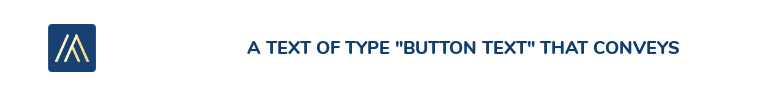
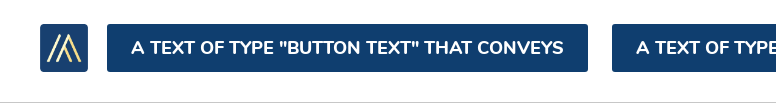
WIP responsiva

diff --git a/components/avail/Footer/index.js b/components/avail/Footer/index.js
@@ -10,6 +10,7 @@ import {
 } from "react-feather"
 import { Heading, Text } from "@rent_avail/typography"
 import styled from "styled-components"
+import { availContainerWidth } from "lib/config"
 
 const FooterLinks = styled(Box)`
   margin-top: 3rem;
@@ -29,9 +30,12 @@ const FooterText = styled(Text)`
   margin-top: 0.6667rem;
 `
 
-const FooterIcon = styled(Box).attrs({ as: "a" })`
+const FooterIcon = styled(Box).attrs({
+  as: "a",
+  margin: [0, 0, 0, "2rem 0 0"],
+})`
   display: inline-block;
-  margin: 2rem 0 0;
+  margin: 
   &:first-child {
     margin: 0;
   }
@@ -46,7 +50,7 @@ const Footer = () => {
   const currentYear = new Date().getFullYear()
   return (
     <Box bg="blue_100">
-      <Container maxWidth="96rem" p="2rem 2rem 3rem">
+      <Container maxWidth={availContainerWidth} p="2rem 2rem 3rem">
         <Flex justifyContent="center">
           <Flex
             as="a"
@@ -61,8 +65,8 @@ const Footer = () => {
             <ChevronUp style={{ marginLeft: ".5rem" }} />
           </Flex>
         </Flex>
-        <Grid gap="3rem" justifyContent="space-between">
-          <Col span={[12, 4, 3]}>
+        <Grid gap={["2rem", "2rem", "4rem"]} justifyContent="space-between">
+          <Col span={[12, 6, 4, 3]}>
             <FooterLinks>
               <FooterLinksHeading as="h5">Get Started</FooterLinksHeading>
               <FooterText as="a" href="https://www.avail.co/users/new">
@@ -94,7 +98,7 @@ const Footer = () => {
               </FooterText>
             </FooterLinks>
           </Col>
-          <Col span={[12, 4, 3]}>
+          <Col span={[12, 6, 4, 3]}>
             <FooterLinks>
               <FooterLinksHeading as="h5">How It Works</FooterLinksHeading>
               <FooterText
@@ -147,8 +151,16 @@ const Footer = () => {
               </FooterText>
             </FooterLinks>
           </Col>
-          <Col span={[12, 4, 3]} alignSelf="flex-end">
-            <Flex flexDirection="column" alignItems="flex-end">
+          <Col span={[12, 6, 4, 3]}>
+            <Flex
+              flexDirection="column"
+              alignItems={[
+                "flex-start",
+                "flex-start",
+                "flex-start",
+                "flex-end",
+              ]}
+            >
               <Box>
                 <FooterLinks>
                   <FooterLinksHeading as="h5">Resources</FooterLinksHeading>
@@ -185,11 +197,18 @@ const Footer = () => {
               </Box>
             </Flex>
           </Col>
-          <Col span={[12, 4, 3]} order={[1, -1]}>
+          <Col span={[12, 12, 12, 3]} order={[1, 1, 1, -1]}>
             <Flex>
               <Stack
-                direction={["row", "column"]}
+                direction={["row", "row", "row", "column"]}
                 alignItems="center"
+                justifyContent={[
+                  "space-between",
+                  "space-between",
+                  "space-between",
+                  "center",
+                ]}
+                width={["100%", "100%", "100%", "initial"]}
                 mt="2rem"
                 color="blue_500"
               >
@@ -239,7 +258,7 @@ const Footer = () => {
       <Box bg="blue_500" color="blue_300">
         <Box
           as={Container}
-          maxWidth="96rem"
+          maxWidth={availContainerWidth}
           p="2.667rem 2rem"
           fontSize="1.334rem"
         >

diff --git a/components/core/Hero/index.js b/components/core/Hero/index.js
@@ -40,10 +40,10 @@ function Hero({
         as={Grid}
         minHeight="calc(90vh - 14rem)"
         alignItems="center"
-        gap={["2rem", "4rem"]}
+        gap={["2rem", "2rem", "4rem"]}
         {...(containerWidth ? { maxWidth: containerWidth } : null)}
       >
-        <Col span={image ? [12, 6] : [12]}>
+        <Col span={image ? [12, 12, 6] : [12]}>
           {cloneElement(title, { fontSize: image ? "4rem" : "5rem" })}
           <Box mt="2rem">{description}</Box>
           {links && (
@@ -55,13 +55,12 @@ function Hero({
         </Col>
         {image && (
           <Col
-            as="img"
-            src={image}
-            span={[12, 6]}
+            span={[12, 12, 6]}
             gridRow={["1", "auto"]}
             order={imagePosition === "left" ? -1 : 1}
-            maxWidth="100%"
-          />
+          >
+            <Box as="img" src={image} maxWidth={["100%"]} />
+          </Col>
         )}
       </Container>
     </HeroWrapper>

diff --git a/slices/PitchCards/index.js b/slices/PitchCards/index.js
@@ -3,6 +3,7 @@ import { RichText } from "prismic-reactjs"
 import { PitchCards } from "components/core/PitchCards"
 import Heading from "components/prismic/Heading"
 import Anchor from "components/prismic/Anchor"
+import { availContainerWidth } from "lib/config"
 
 const PitchCardsSlice = ({ slice }) => {
   const {
@@ -35,9 +36,9 @@ const PitchCardsSlice = ({ slice }) => {
         title={<Heading render={title} />}
         description={<RichText render={description} />}
         sections={sections}
-        maxWidth="96rem"
+        maxWidth={availContainerWidth}
         my="6rem"
-        span={[12, 6, 4]}
+        span={[12, 12, 6, 4]}
       />
     </React.Fragment>
   )

diff --git a/pages/_app.js b/pages/_app.js
@@ -5,9 +5,14 @@ import Head from "next/head"
 import PreviewWarning from "components/prismic/PreviewWarning"
 
 export default function App({ Component, pageProps }) {
+  const overriddenTheme = {
+    ...theme,
+    breakpoints: ["30rem", "45rem", "60rem", "75rem", "90rem"],
+    // breakpoints: ["480px", "720px", "960px", "1200px", "1440px"],
+  }
   const { preview } = pageProps
   return (
-    <ThemeProvider theme={theme}>
+    <ThemeProvider theme={overriddenTheme}>
       <Head>
         <link
           href="https://fonts.googleapis.com/css2?family=Nunito:wght@200;400;600;800&display=swap"

diff --git a/slices/HeroUnit/index.js b/slices/HeroUnit/index.js
@@ -5,6 +5,7 @@ import RichText from "prismic-reactjs/src/Component"
 import Heading from "components/prismic/Heading"
 import { Hero } from "components/core/Hero"
 import { useTheme } from "styled-components"
+import { availContainerWidth } from "lib/config"
 
 const HeroUnit = ({ slice }) => {
   const {
@@ -78,7 +79,7 @@ const HeroUnit = ({ slice }) => {
           </Link>
         )
       }
-      containerWidth="96rem"
+      containerWidth={availContainerWidth}
     />
   )
 }

diff --git a/slices/NavBar/index.js b/slices/NavBar/index.js
@@ -1,6 +1,7 @@
 import React from "react"
 import NavBar from "components/core/NavBar"
 import { useTheme } from "styled-components"
+import { availContainerWidth } from "lib/config"
 
 const NavBarSlice = ({ slice }) => {
   const { colors } = useTheme()
@@ -21,6 +22,7 @@ const NavBarSlice = ({ slice }) => {
       links={links}
       sticky={sticky}
       borderBottom={sticky ? `1px solid ${colors.ui_500}` : "none"}
+      containerWidth={availContainerWidth}
     />
   )
 }

diff --git a/components/core/NavBar/index.js b/components/core/NavBar/index.js
@@ -40,7 +40,11 @@ const NavBar = ({
       {...props}
     >
       <GlobalStyle sticky />
-      <Container p={["1rem", "2rem"]} maxWidth={containerWidth}>
+      <Container
+        p={["1rem", "2rem"]}
+        maxWidth={containerWidth}
+        overflow="hidden"
+      >
         <Flex>
           <Box as="a" href="https://avail.co" mr="2rem">
             <Box

diff --git a/babel.config.js b/babel.config.js
@@ -8,6 +8,7 @@ module.exports = {
         alias: {
           components: "./components",
           slices: "./slices",
+          lib: "./lib",
           "@prismic-config": "./prismic.config.js",
         },
       },

diff --git a/lib/config.js b/lib/config.js
@@ -1,0 +1,1 @@
+export const availContainerWidth = ["62rem", "62rem", "62rem", "80rem", "96rem"]
